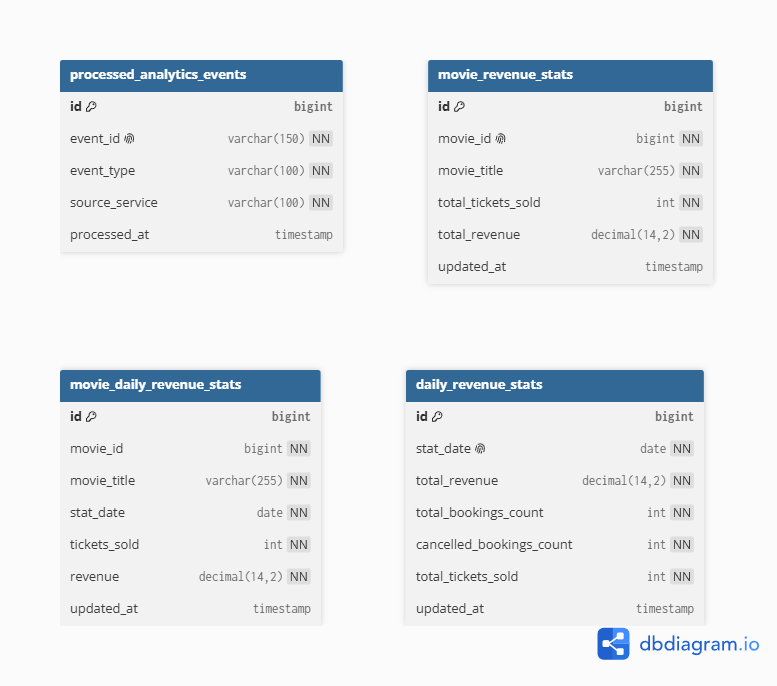
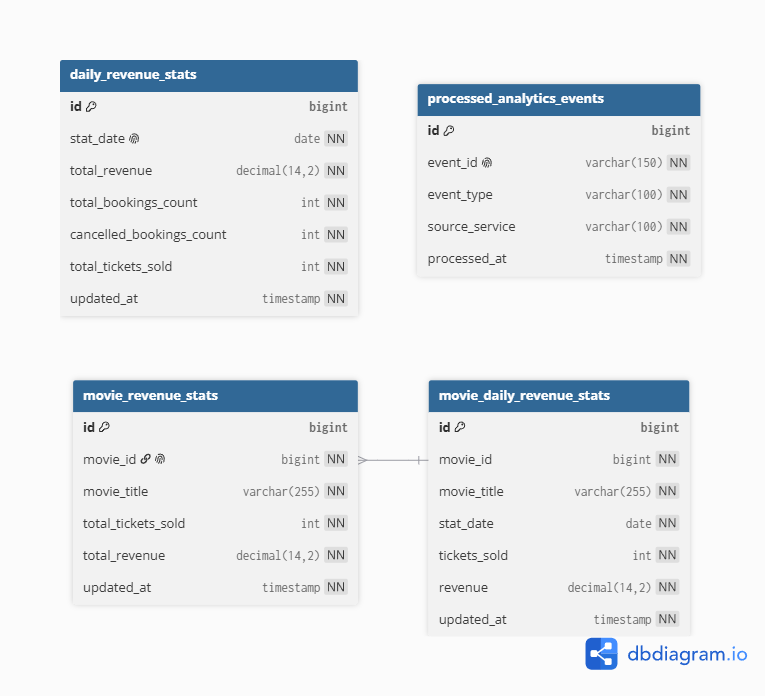
feat: update analytics service schema and documentation to reflect revenue aggregation rules and validation requirements

diff --git a/docs/api/analytics-service-api.md b/docs/api/analytics-service-api.md
@@ -264,7 +264,32 @@ Revenue = 216000
 
 Promotion discount và Membership discount đã được phản ánh trong `paidAmount`.
 
-Hệ thống không có Score Redeem và không dùng điểm để thanh toán vé.
+Analytics không tự tính toán Promotion discount,
+Membership discount hoặc Score Redeem.
+
+Revenue luôn được aggregate từ paidAmount cuối cùng
+được Payment Service xác nhận.
+
+Nếu booking sử dụng Promotion, Membership discount
+hoặc Score Redeem thì các khoản giảm giá này phải
+được phản ánh vào paidAmount trước khi
+PAYMENT_SUCCEEDED được publish.
+
+Analytics không lưu riêng giá trị Promotion,
+Membership discount hoặc Score Redeem trong Sprint 2.
+
+Ví dụ:
+
+Original amount = 240000
+
+Promotion discount = 10000
+
+Score Redeem = 20000
+
+Final paidAmount = 210000
+
+Revenue aggregate = 210000
+
 
 ### 5.5. Kafka Aggregation
 
@@ -1440,6 +1465,25 @@ movie_daily_revenue_stats.ticketsSold -= refundedTicketCount
 
 Không để lifetime ticket count nhỏ hơn `0`.
 
+Validation Rule
+
+Consumer phải bảo đảm:
+
+movie_revenue_stats.total_tickets_sold >= 0
+
+movie_daily_revenue_stats.tickets_sold >= 0
+
+Refund event không được làm ticket count âm.
+
+Nếu aggregate hiện tại nhỏ hơn số lượng ticket
+cần giảm thì event phải:
+
+- bị reject
+hoặc
+- được chuyển sang reconciliation flow
+
+không được ghi dữ liệu âm vào aggregate table.
+
 Daily net revenue có thể âm.
 
 ---
@@ -1541,6 +1585,23 @@ Nếu một bước lỗi:
 ```txt
 Rollback toàn bộ
 ```
+Implementation Requirement
+
+processed_analytics_events insertion
+
+daily_revenue_stats update
+
+movie_revenue_stats update
+
+movie_daily_revenue_stats update
+
+phải nằm trong cùng một database transaction.
+
+Không được mark event là processed nếu
+bất kỳ aggregate update nào thất bại.
+
+Event chỉ được coi là aggregate thành công
+sau khi toàn bộ transaction commit thành công.
 
 Không được:
 
@@ -1892,7 +1953,33 @@ Revenue = 216000
 
 Tương tự, nếu có Promotion discount, Analytics vẫn chỉ nhận và aggregate `paidAmount` cuối cùng.
 
-Hệ thống không có Score Redeem, không dùng điểm để thanh toán vé và không quy đổi score thành tiền.
+Analytics không phân biệt nguồn discount.
+
+Revenue được aggregate từ paidAmount cuối cùng
+do Payment Service xác nhận.
+
+paidAmount có thể đã bao gồm:
+
+* Promotion discount
+* Membership discount
+* Score Redeem
+* Các cơ chế giảm giá khác trong tương lai
+
+Analytics không lưu riêng từng loại discount
+và không thực hiện tính toán discount.
+
+Ví dụ:
+
+Original amount = 240000
+
+Membership discount = 10000
+
+Score Redeem = 20000
+
+Final paidAmount = 210000
+
+Revenue aggregate = 210000
+
 
 # 33. Booking and Ticket Count Rules
 
